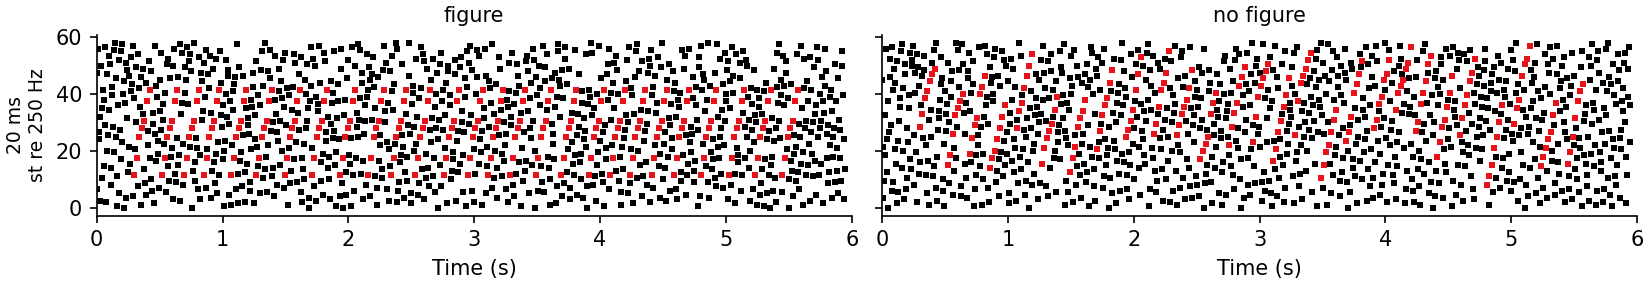
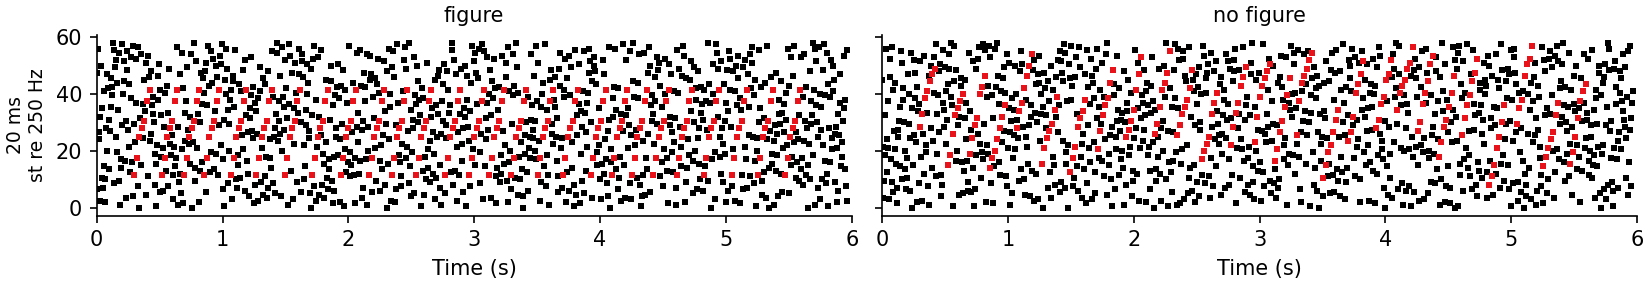
audios/sfg_task: 30 ms tones, and the cloud that goes with them
Six tones sounding rather than ten, because with the figure substituting
rather than adding, the cloud size is tone_ms/hop_ms and nothing else: fewer
cannot cover every slot, more raises the onset rate and costs contrast for
nothing.

That halves the critical-band occupancy, 79% to 47%, and the crash class
goes with it: over 1500 trials at six delays the band rule never once had to
bend, against one slot in a thousand at the shortest delay before.  Contrast
rises slightly, 3.6x to 4.1x.

Both ideal-observer numbers improve.  Present against absent falls from
d' 17-19 to 8-9, still 100% and still unfixable.  Coherent against scattered
falls to 0.45-0.68, and more importantly it is now flat across the sweep
where at 50 ms tones it trended downwards, in the same direction as the
effect being looked for.  A flat floor can be subtracted; a trending one
mimics the result.

Rechecked: every block builds, no build failures in 1500 trials, tone counts
and levels matched at every delay, no beating pairs, element pulse under
0.02 dB, sessions drive end to end with resume, notebook runs clean.

Changed region(s): [[0.0618, 0.1404, 1.0, 0.7579]]

diff --git a/audios/sfg_task/config.py b/audios/sfg_task/config.py
@@ -32,7 +32,7 @@ class Design:
     # the grid is -- so it is set by the finest step to be tested.
     fs: int = 48_000
     hop_ms: float = 5.0
-    tone_ms: float = 50.0        # as in Teki 2013 / O'Sullivan 2015
+    tone_ms: float = 30.0        # 25-50 ms in the literature
     ramp_ms: float = 10.0        # raised cosine, independent of the grid
 
     # --- the cloud ----------------------------------------------------
@@ -44,9 +44,12 @@ class Design:
                                  # that octave is boosted 11 dB and takes
                                  # over the stimulus
     grid_st: float = 0.5
-    bg_sounding: int = 10        # TOTAL tones sounding, figure included: the
+    bg_sounding: int = 6         # TOTAL tones sounding, figure included: the
                                  # figure substitutes, so this is the whole
-                                 # cloud.  Teki's mean chord is 10 as well.
+                                 # cloud.  It has to be tone_ms/hop_ms, which
+                                 # is one start per slot: fewer cannot cover
+                                 # every slot, more raises the onset rate and
+                                 # costs contrast for nothing.
     dealer_slack: float = 3.0    # counts stay level, order stays unguessable
     guard_ms: float = 50.0       # rest before a channel may sound again, so
                                  # two background tones never abut into one

diff --git a/audios/sfg_task/README.md b/audios/sfg_task/README.md
@@ -109,7 +109,7 @@ these. Construction arguments are not evidence.
 | element loudness pulse | element-locked power against the window before it: -0.06 to -0.02 dB at every step, the same in both |
 | element loudness cue | present minus absent, against the same measure split within one condition. The difference (0.10 to 0.13 dB) sits below the noise floor of the measurement (0.14 to 0.17 dB) |
 | element power | equalised per draw, against the power the background actually realised. CV 0.0000 in both |
-| beating | no two tones inside one critical band at once: 0 pairs, at every step. Ten tones sounding, each holding a band clear either side, is 79% of the pool's 25 ERB, so once in about a thousand slots at the shortest delay there is nowhere a whole band clear; the background takes the channel furthest from what is sounding rather than ending the session, and the battery counts how often |
+| beating | no two tones inside one critical band at once: 0 pairs, at every step. Six tones sounding, each holding a band clear either side, is 47% of the pool's 25 ERB, and over 1500 trials the rule never once had to bend. At 50 ms tones it was 79% and bent on one slot in a thousand at the shortest delay; the background takes the channel furthest from what is sounding rather than ending the session, and the battery counts how often |
 | envelope at the figure rate | 0.02 dB in both intervals, at every delay: the levelling removes the 5 Hz pulse entirely |
 | accidental coherence | no two elements of a figure-absent interval share more than one channel |
 | figure position | uniform over the allowed range, redrawn every trial, so it is never in a learnable place |
@@ -325,7 +325,7 @@ sessions halve that. Decide which you need before running twenty people once.
   1400 a second, and no contrast left. The sweep runs from 5 ms, which is 30 ms from the
   figure's first tone to its last.
 
-  It does not touch the present-against-absent cue, which stays at d' 17-19. Nothing
+  It does not touch the present-against-absent cue, which stays at d' 8-9 (it was 17-19 at 50 ms tones). Nothing
   will: one interval has seven elevated channels and the other does not, and that is
   what "figure" means.
 
@@ -334,13 +334,14 @@ sessions halve that. Decide which you need before running twenty people once.
 
   | delay | 5 | 10 | 20 | 30 | 40 | 50 |
   |---|---|---|---|---|---|---|
-  | spectrum-only d' | 1.18 | 0.89 | 0.90 | 0.82 | 0.57 | 0.25 |
-  | spectrum-only 2IFC | 80% | 74% | 74% | 72% | 66% | 57% |
+  | spectrum-only d' | 0.45 | 0.68 | 0.60 | 0.61 | 0.55 | 0.56 |
+  | spectrum-only 2IFC | 63% | 69% | 66% | 67% | 65% | 65% |
 
-  Read that row as a floor under the psychometric function, and note which way it
-  points: it falls with delay, in the same direction as the effect being looked for. A
-  behavioural curve is only evidence of temporal coherence to the extent that it drops
-  further and faster than this one does. Plot them together.
+  Read that row as a floor under the psychometric function. At 30 ms tones it is flat
+  across the sweep, which matters: a floor that trended with delay would mimic the
+  effect being looked for, and at 50 ms tones it did (0.45 to 0.25). A behavioural curve
+  is evidence of temporal coherence to the extent that it drops below and away from this
+  one. Plot them together.
 
   The older repair does not work either. Making the figure-absent interval carry the same
   seven recurring channels, ungrouped, takes the ideal observer from d' 12-18 down to
